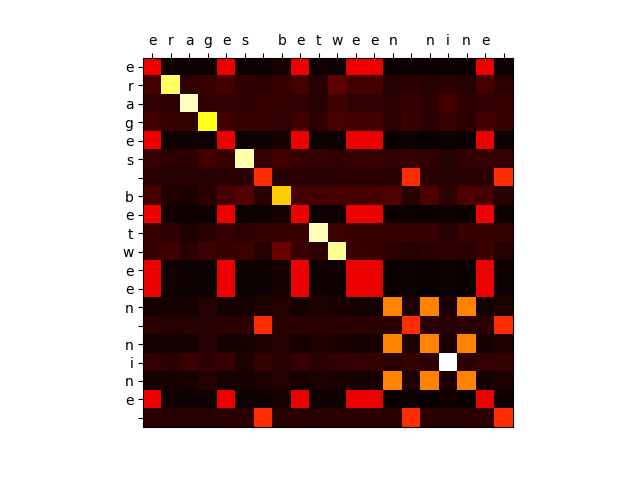
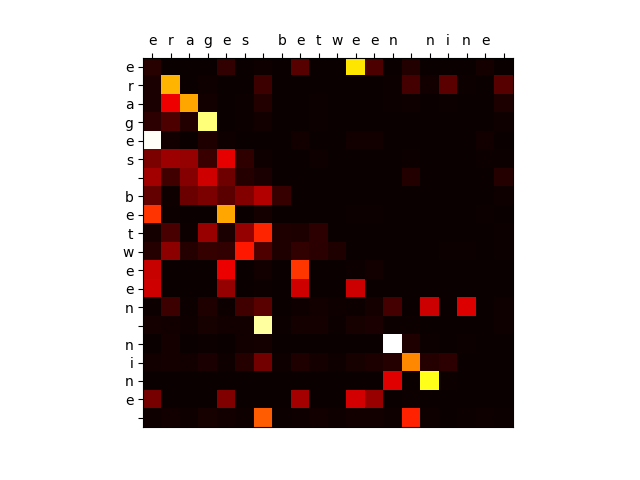
no batching

Changed region(s): [[0.2188, 0.125, 0.8125, 0.9062], [0.2188, 0.8125, 0.25, 0.9062], [0.2188, 0.7188, 0.25, 0.7812]]

diff --git a/a3-distrib/transformer_lm.py b/a3-distrib/transformer_lm.py
@@ -1,7 +1,10 @@
 # models.py
 
 import numpy as np
-
+import torch
+import torch.nn as nn
+from torch import optim
+import random
 
 class LanguageModel(object):
 
@@ -44,16 +47,39 @@ class UniformLanguageModel(LanguageModel):
         return np.log(1.0/self.voc_size) * len(next_chars)
 
 
-class NeuralLanguageModel(LanguageModel):
-    def __init__(self):
-        raise Exception("Implement me")
+class NeuralLanguageModel(nn.Module):
+    def __init__(self, vocab_index, vocab_size, d_model, num_layers, num_classes):
+        super(NeuralLanguageModel, self).__init__()
+        self.vocab_index = vocab_index
+        self.vocab_size = vocab_size
+        self.embedding = nn.Embedding(vocab_size, d_model)
+        enc_layer = nn.TransformerEncoderLayer(d_model= d_model, nhead= 4, batch_first=True)
+        self.transformer = nn.TransformerEncoder(enc_layer, num_layers= num_layers)
+        self.output_layer = nn.Linear(d_model, num_classes)
+
+    def forward(self, input_tensor):
+        mask = nn.Transformer.generate_square_subsequent_mask(input_tensor.shape[1])
+        embedded = self.embedding(input_tensor)
+        output = self.transformer(embedded, mask=mask)
+        output = self.output_layer(output)
+        return nn.functional.log_softmax(output, dim=2)
 
     def get_next_char_log_probs(self, context):
-        raise Exception("Implement me")
+        self.eval()
+        if not context:
+            return torch.from_numpy(np.ones([self.vocab_size]) * np.log(1.0/self.vocab_size))
+        context_indices = [self.vocab_index.index_of(c) for c in context]
+        context_tensor = torch.tensor([context_indices])
+        log_probs = self.forward(context_tensor)
+        return log_probs[0, -1, :]
 
     def get_log_prob_sequence(self, next_chars, context):
-        raise Exception("Implement me")
-
+        self.eval()
+        log_prob = 0.0
+        for i, char in enumerate(next_chars):
+            current_context = context + next_chars[:i]
+            log_prob += self.get_next_char_log_probs(current_context)[self.vocab_index.index_of(char)]
+        return log_prob
 
 def train_lm(args, train_text, dev_text, vocab_index):
     """
@@ -63,4 +89,47 @@ def train_lm(args, train_text, dev_text, vocab_index):
     :param vocab_index: an Indexer of the character vocabulary (27 characters)
     :return: a NeuralLanguageModel instance trained on the given data
     """
-    raise Exception("Implement me")
+
+    # Hyperparameters
+    d_model = 128
+    vocab_size = len(vocab_index)
+    num_classes = vocab_size
+    num_layers = 2
+    lr = 1e-4
+    num_epochs = 10
+    chunk = 10
+
+    model = NeuralLanguageModel(vocab_index, vocab_size, d_model, num_layers, num_classes)
+    model.train()
+    optimizer = optim.Adam(model.parameters(), lr=lr)
+    loss_fcn = nn.NLLLoss()
+
+    train_examples = []
+    for i in range(0, len(train_text) - chunk):
+        train_examples.append([vocab_index.index_of(c) for c in train_text[i:i+chunk+1]])
+
+    for t in range(num_epochs):
+        model.train()
+        loss_this_epoch = 0.0
+
+        random.seed(t)
+        random.shuffle(train_examples)
+
+        for ex in train_examples:
+            inputs = torch.tensor([ex[:-1]])
+            targets = torch.tensor(ex[1:])
+            
+            optimizer.zero_grad()
+
+            log_probs = model.forward(inputs)
+        
+            loss = loss_fcn(log_probs.view(-1, num_classes), targets.view(-1))
+        
+            loss.backward()
+            optimizer.step()
+        
+            loss_this_epoch += loss.item()
+
+        print(f"Epoch {t+1} loss: {loss_this_epoch/len(train_examples)}")
+        model.eval()
+    return model

diff --git a/a3-distrib/transformer.py b/a3-distrib/transformer.py
@@ -40,8 +40,9 @@ class Transformer(nn.Module):
         """
         super().__init__()
         self.embedding = nn.Embedding(vocab_size, d_model)
-        self.layers = nn.ModuleList([TransformerLayer(d_model, d_internal) for _ in range(1)])
+        self.layers = nn.ModuleList([TransformerLayer(d_model, d_internal) for _ in range(2)])
         self.output_layer = nn.Linear(d_model, num_classes)
+        self.posenc = PositionalEncoding(d_model)
 
     def forward(self, indices):
         """
@@ -50,7 +51,7 @@ class Transformer(nn.Module):
         :return: A tuple of the softmax log probabilities (should be a 20x3 matrix) and a list of the attention
         maps you use in your layers (can be variable length, but each should be a 20x20 matrix)
         """
-        embeds = self.embedding(indices)
+        embeds = self.posenc(self.embedding(indices))
 
         attn_maps = []
         layer_output = embeds
@@ -82,7 +83,7 @@ class TransformerLayer(nn.Module):
         self.WV = nn.Linear(d_model, d_internal, bias=False)
         # self.WO = nn.Linear(d_internal, d_model, bias=False)
         self.softmax = nn.Softmax(dim=-1)
-        self.posenc = PositionalEncoding(d_model)
+        # self.posenc = PositionalEncoding(d_model)
 
         # FFN
         self.ffn = nn.Sequential(
@@ -93,8 +94,8 @@ class TransformerLayer(nn.Module):
         )
 
     def forward(self, input_vecs):
-        input_vecs = self.posenc(input_vecs)
-        
+        # input_vecs = self.posenc(input_vecs)
+
         Q = self.WQ(input_vecs)
         K = self.WK(input_vecs)
         V = self.WV(input_vecs)
@@ -160,7 +161,7 @@ def train_classifier(args, train, dev):
     lr = 1e-4
     num_epochs = 10
 
-    model = Transformer(vocab_size, d_model, d_internal, num_classes)
+    model = Transformer(vocab_size, d_model, d_internal, num_classes, num_layers)
     model.train()
     optimizer = optim.Adam(model.parameters(), lr=lr)
     loss_fcn = nn.NLLLoss()
